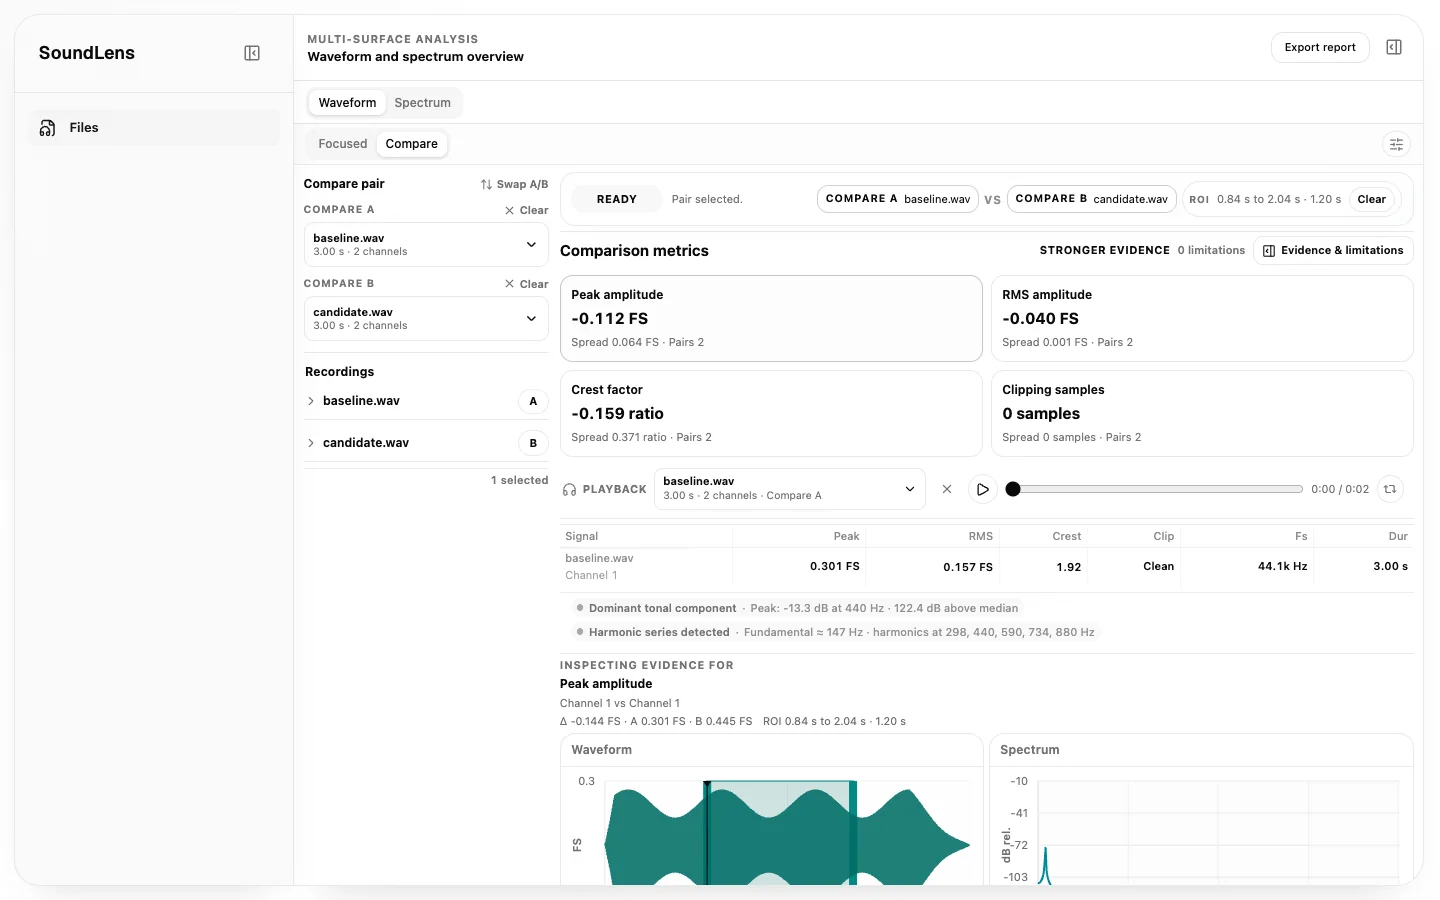
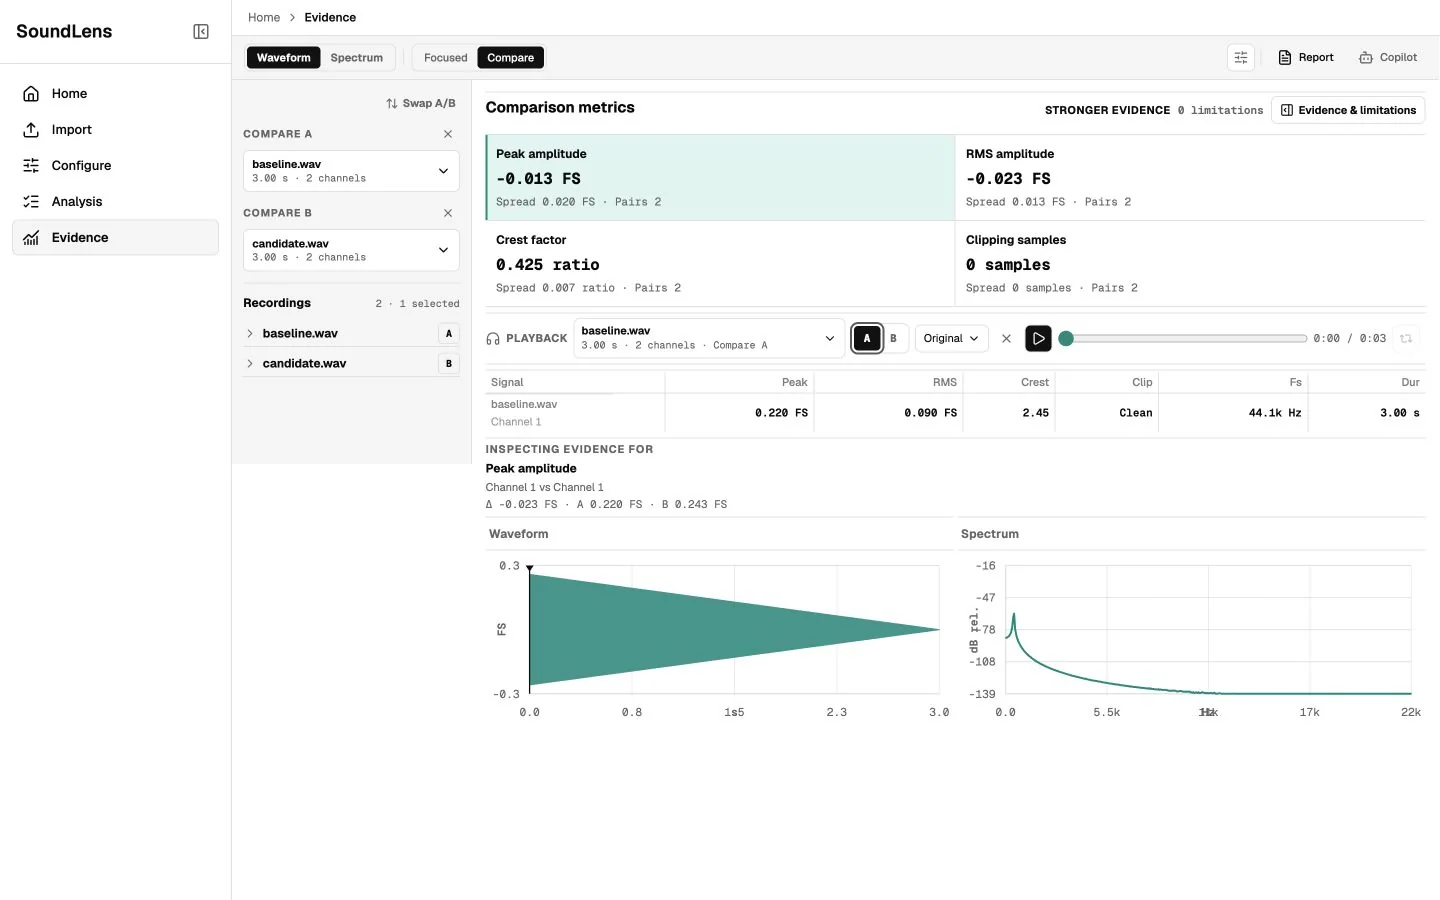
docs: refresh portfolio readme

diff --git a/README.md b/README.md
@@ -5,13 +5,13 @@
 [![CI](https://github.com/jci24/SoundLens/actions/workflows/ci.yml/badge.svg)](https://github.com/jci24/SoundLens/actions/workflows/ci.yml)
 [![License: MIT](https://img.shields.io/badge/license-MIT-111111.svg)](LICENSE)
 
-SoundLens helps acoustic and audio engineers compare repeated recordings, inspect the evidence behind a difference, and turn the result into a traceable explanation or report. It is an active validation-stage prototype focused on hearing-aid, audio-device, and adjacent product-sound workflows.
+SoundLens helps acoustic and product-sound engineers compare repeated recordings, inspect the evidence behind a difference, and turn the result into a traceable explanation or report. It is an active validation-stage prototype currently testing automotive NVH as its leading customer hypothesis, with machinery and broader product-sound teams as adjacent discovery segments.
 
 ![SoundLens comparison workspace showing an active A/B pair, ROI-scoped metrics, playback, waveform, and spectrum evidence](docs/assets/soundlens-workspace.webp)
 
 ## Workflow
 
-Import recordings, define the active A/B pair, narrow the analysis to a region of interest, inspect backend-computed evidence, audition the selected region, and preview a grounded report.
+Move through a functional investigation flow: restore or import a temporary workspace, configure the active A/B pair, select deterministic analyses, inspect backend-computed evidence, audition recordings or isolated channels, ask Copilot follow-up questions, and preview a grounded report.
 
 ![SoundLens workflow from audio import through A/B comparison, ROI selection, playback, evidence inspection, a grounded Copilot response, and report preview](docs/assets/soundlens-copilot-demo.gif)
 
@@ -19,18 +19,22 @@ Import recordings, define the active A/B pair, narrow the analysis to a region o
 
 Repeated-recording investigations often require engineers to move manually between files, plots, calculations, and written notes. That makes it easy to lose the relationship between a conclusion and the exact recording, channel, region, metric, unit, or limitation that supports it.
 
-SoundLens keeps those relationships visible. The product is intentionally built around one narrow workflow first: a defensible comparison between one explicitly selected recording from **Compare A** and one from **Compare B**.
+SoundLens keeps those relationships visible. The product is intentionally validating one narrow workflow first: a defensible comparison between one explicitly selected recording from **Compare A** and one from **Compare B**. That pair is the atomic evidence view for a future campaign-scale workflow, not the intended limit of the product.
 
 ## Current Capabilities
 
-- Import WAV recordings through the browser and browse their channels.
+- Move through routed Home, Import, Configure, Analysis, and Evidence views with temporary-session restoration and route guards.
+- Import WAV recordings through a path-safe browser contract and browse backend-resolved recording and channel metadata.
 - Select explicit Compare A and Compare B recordings with accessible replace, clear, and swap controls.
+- Choose waveform and spectrum analyses before opening the evidence workspace, or bypass comparison for focused single-signal inspection.
 - Render backend-computed waveform and spectrum evidence without recomputing DSP values in the browser.
 - Select a waveform region of interest and apply the same validated scope to comparison evidence.
 - Review peak, RMS, crest-factor, and clipping differences in a stable domain order without claiming cross-unit importance.
 - Inspect aggregate values, aligned signal pairs, coverage, missing evidence, and limitations in a side inspector.
-- Audition an explicitly selected original recording, seek within it, and play or loop the active ROI with a synchronized waveform playhead.
-- Ask a grounded Copilot about loaded or selected evidence while retaining citations, limitations, and deterministic refusal paths.
+- Audition recordings with seeking, ROI playback and looping, a waveform playhead, position-aligned A/B switching, and isolated-channel routing without modifying evidence.
+- Ask Copilot about selected evidence, acoustic theory, investigation guidance, or current external research while keeping measured evidence and cited web sources separate.
+- Follow up across a bounded temporary conversation; historical workspace references are revalidated and measurements are recomputed by the backend.
+- Review observable preparation activity, evidence sufficiency, structured observations, limitations, trust refusals, and validated citations without exposing private model reasoning.
 - Preview and export comparison reports as Markdown or selectable-text PDF using backend-reconstructed evidence.
 
 ## Evidence Architecture
@@ -62,9 +66,10 @@ The backend is the numerical authority. The frontend sends identifiers and inter
 
 - **Vertical slices:** backend behavior, contracts, frontend interaction, tests, and documentation evolve as small reviewable outcomes.
 - **Explicit evidence ownership:** waveform bins, spectrum bins, metrics, units, alignment, ROI scope, and limitations come from the backend.
-- **Trust guards:** uncalibrated evidence cannot become a dB SPL claim, observational differences cannot become asserted causes, and malformed model output fails closed.
+- **Trust guards:** uncalibrated evidence cannot become a dB SPL claim, observational differences cannot become asserted causes, prior conversation prose cannot become measurement evidence, and malformed model output fails closed.
 - **Grounded reporting:** Markdown and PDF share one backend preparation path and remain useful through a deterministic fallback when AI is unavailable.
-- **Scalable playback foundation:** browser-native playback uses one media element, HTTP range requests, explicit source selection, and no hidden normalization or transcoding.
+- **Audition without evidence drift:** browser-native playback, HTTP range requests, position-aligned A/B switching, and Web Audio channel routing add no hidden normalization, effects, or sample changes.
+- **Scalable investigation direction:** A/B remains the inspectable evidence primitive while metadata-driven reference-to-many, matched-pair, cohort, and condition-matrix workflows are staged for customer validation.
 - **Validation:** deterministic backend tests, React behavior tests, CI, and a repeatable Copilot eval harness cover evidence and refusal behavior.
 
 ## Technology
@@ -72,8 +77,9 @@ The backend is the numerical authority. The frontend sends identifiers and inter
 | Area | Stack |
 | --- | --- |
 | Backend | .NET 10, C#, FastEndpoints, MessagePack, Serilog |
-| Frontend | React 19, TypeScript, Vite, Radix UI, shadcn, Zustand, SCSS |
-| AI | Server-side OpenAI tool calling over structured evidence |
+| Frontend | React 19, TypeScript, Vite, React Router, Radix UI, shadcn, Zustand, TanStack Virtual, SCSS |
+| AI | Server-side OpenAI Chat and Responses APIs over structured evidence, with bounded cited web search |
+| Audio audition | HTMLMediaElement streaming, HTTP ranges, Web Audio channel routing |
 | Reporting | Markdown, PDFsharp-MigraDoc, embedded Noto Sans fonts |
 | Validation | xUnit, Vitest, React Testing Library, deterministic eval fixtures |
 
@@ -124,10 +130,11 @@ npm run build
 SoundLens is a validation-stage engineering prototype, not a production acoustic platform.
 
 - Imported recordings and comparison state are temporary and session-scoped.
-- Comparison currently supports one active recording per side rather than multi-recording cohort aggregation.
+- Comparison currently supports one active recording per side. Persisted campaigns, reference-to-many analysis, matched cohorts, and condition matrices remain roadmap work.
 - Imported evidence is uncalibrated and must not be interpreted as physical dB SPL.
 - Findings are bounded observations, not proof of root cause or standards compliance.
-- Playback auditions one recording at a time; synchronized A/B and isolated-channel audition are deferred.
+- A/B audition is position-aligned rather than sample-accurate, level-matched, or crossfaded. Isolated-channel routing is an audition aid and does not change deterministic evidence.
+- Copilot conversation continuity is temporary and limited to the Evidence route; named or persisted conversations, workspace-plus-web synthesis, deep research jobs, and autonomous workspace actions are not implemented.
 - The current PDF report is textual and tabular and does not claim PDF/UA conformance.
 - Persistent projects, server-owned batch navigation, bounded execution, cancellation, aggregate visualization, and partial-failure isolation remain roadmap work.
 